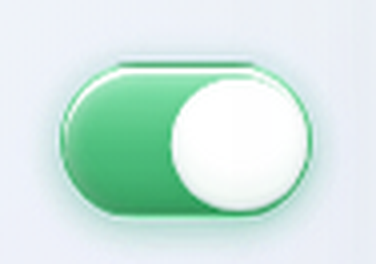
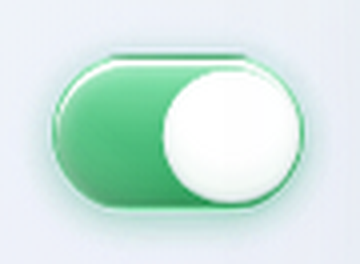
style(app): 绿色水晶开关再加一层 45° 斜向反光
之前只有垂直方向的棱面高光，看起来像"磨砂塑料"而不是水晶。
补一层 45° 白光（左上强、中间透、右下弱），
和灵动岛选中态用的是同一个手法。

打开态：
  linear-gradient(45deg, 白 .58 -> 透 -> 白 .46),   /* 斜切面反光 */
  linear-gradient(180deg, 绿 .62 -> 绿 .74 -> 绿 .80)
关闭态也补了一层更淡的 45°，保持同一材质语言。

实测 checked 的 background-image 现在是两层渐变。

Changed region(s): [[0.1222, 0.1818, 0.8556, 0.6364], [0.1833, 0.5758, 0.7944, 0.8485]]

diff --git a/prototypes/Costudy-UI-原型.html b/prototypes/Costudy-UI-原型.html
@@ -3755,6 +3755,46 @@ body[data-backdrop="photo"] .compiled-text {
     inset 0 -1px 2px rgba(90, 120, 150, 0.18),
     0 1px 3px rgba(20, 158, 74, 0.28) !important;
 }
+/* ==========================================================
+   水晶再加一层斜向反光
+   原来只有垂直方向的棱面高光，水晶看起来更像"磨砂塑料"。
+   加一层 45° 的白光（两端亮、中间透），就有了"斜切面反射天光"的感觉 ——
+   和灵动岛选中态用的是同一个手法。
+   ========================================================== */
+.switch-row input:checked + .switch-track {
+  background-image:
+    /* 45° 斜向反光：左上角与右下角各一道白，中间透出租底 */
+    linear-gradient(
+      45deg,
+      rgba(255, 255, 255, 0.58) 0%,
+      rgba(255, 255, 255, 0.12) 14%,
+      rgba(255, 255, 255, 0) 34%,
+      rgba(255, 255, 255, 0) 68%,
+      rgba(255, 255, 255, 0.16) 86%,
+      rgba(255, 255, 255, 0.46) 100%
+    ),
+    linear-gradient(
+      180deg,
+      rgba(86, 226, 134, 0.62) 0%,
+      rgba(30, 178, 84, 0.74) 52%,
+      rgba(16, 146, 64, 0.8) 100%
+    ) !important;
+  background-size: 100% 100%, 100% 100% !important;
+}
+
+/* 关闭态也给一层更淡的斜向反光，保持同一材质语言 */
+.switch-track {
+  background-image:
+    linear-gradient(
+      45deg,
+      rgba(255, 255, 255, 0.5) 0%,
+      rgba(255, 255, 255, 0) 30%,
+      rgba(255, 255, 255, 0) 70%,
+      rgba(255, 255, 255, 0.34) 100%
+    ),
+    linear-gradient(180deg, rgba(255, 255, 255, 0.34) 0%, rgba(255, 255, 255, 0.12) 100%) !important;
+  background-size: 100% 100%, 100% 100% !important;
+}
 </style>
 <style>
 

diff --git a/prototypes/costudy-ui/squircle.css b/prototypes/costudy-ui/squircle.css
@@ -613,3 +613,43 @@
     inset 0 -1px 2px rgba(90, 120, 150, 0.18),
     0 1px 3px rgba(20, 158, 74, 0.28) !important;
 }
+/* ==========================================================
+   水晶再加一层斜向反光
+   原来只有垂直方向的棱面高光，水晶看起来更像"磨砂塑料"。
+   加一层 45° 的白光（两端亮、中间透），就有了"斜切面反射天光"的感觉 ——
+   和灵动岛选中态用的是同一个手法。
+   ========================================================== */
+.switch-row input:checked + .switch-track {
+  background-image:
+    /* 45° 斜向反光：左上角与右下角各一道白，中间透出租底 */
+    linear-gradient(
+      45deg,
+      rgba(255, 255, 255, 0.58) 0%,
+      rgba(255, 255, 255, 0.12) 14%,
+      rgba(255, 255, 255, 0) 34%,
+      rgba(255, 255, 255, 0) 68%,
+      rgba(255, 255, 255, 0.16) 86%,
+      rgba(255, 255, 255, 0.46) 100%
+    ),
+    linear-gradient(
+      180deg,
+      rgba(86, 226, 134, 0.62) 0%,
+      rgba(30, 178, 84, 0.74) 52%,
+      rgba(16, 146, 64, 0.8) 100%
+    ) !important;
+  background-size: 100% 100%, 100% 100% !important;
+}
+
+/* 关闭态也给一层更淡的斜向反光，保持同一材质语言 */
+.switch-track {
+  background-image:
+    linear-gradient(
+      45deg,
+      rgba(255, 255, 255, 0.5) 0%,
+      rgba(255, 255, 255, 0) 30%,
+      rgba(255, 255, 255, 0) 70%,
+      rgba(255, 255, 255, 0.34) 100%
+    ),
+    linear-gradient(180deg, rgba(255, 255, 255, 0.34) 0%, rgba(255, 255, 255, 0.12) 100%) !important;
+  background-size: 100% 100%, 100% 100% !important;
+}

diff --git a/src/renderer/src/styles/squircle.css b/src/renderer/src/styles/squircle.css
@@ -613,3 +613,43 @@
     inset 0 -1px 2px rgba(90, 120, 150, 0.18),
     0 1px 3px rgba(20, 158, 74, 0.28) !important;
 }
+/* ==========================================================
+   水晶再加一层斜向反光
+   原来只有垂直方向的棱面高光，水晶看起来更像"磨砂塑料"。
+   加一层 45° 的白光（两端亮、中间透），就有了"斜切面反射天光"的感觉 ——
+   和灵动岛选中态用的是同一个手法。
+   ========================================================== */
+.switch-row input:checked + .switch-track {
+  background-image:
+    /* 45° 斜向反光：左上角与右下角各一道白，中间透出租底 */
+    linear-gradient(
+      45deg,
+      rgba(255, 255, 255, 0.58) 0%,
+      rgba(255, 255, 255, 0.12) 14%,
+      rgba(255, 255, 255, 0) 34%,
+      rgba(255, 255, 255, 0) 68%,
+      rgba(255, 255, 255, 0.16) 86%,
+      rgba(255, 255, 255, 0.46) 100%
+    ),
+    linear-gradient(
+      180deg,
+      rgba(86, 226, 134, 0.62) 0%,
+      rgba(30, 178, 84, 0.74) 52%,
+      rgba(16, 146, 64, 0.8) 100%
+    ) !important;
+  background-size: 100% 100%, 100% 100% !important;
+}
+
+/* 关闭态也给一层更淡的斜向反光，保持同一材质语言 */
+.switch-track {
+  background-image:
+    linear-gradient(
+      45deg,
+      rgba(255, 255, 255, 0.5) 0%,
+      rgba(255, 255, 255, 0) 30%,
+      rgba(255, 255, 255, 0) 70%,
+      rgba(255, 255, 255, 0.34) 100%
+    ),
+    linear-gradient(180deg, rgba(255, 255, 255, 0.34) 0%, rgba(255, 255, 255, 0.12) 100%) !important;
+  background-size: 100% 100%, 100% 100% !important;
+}
